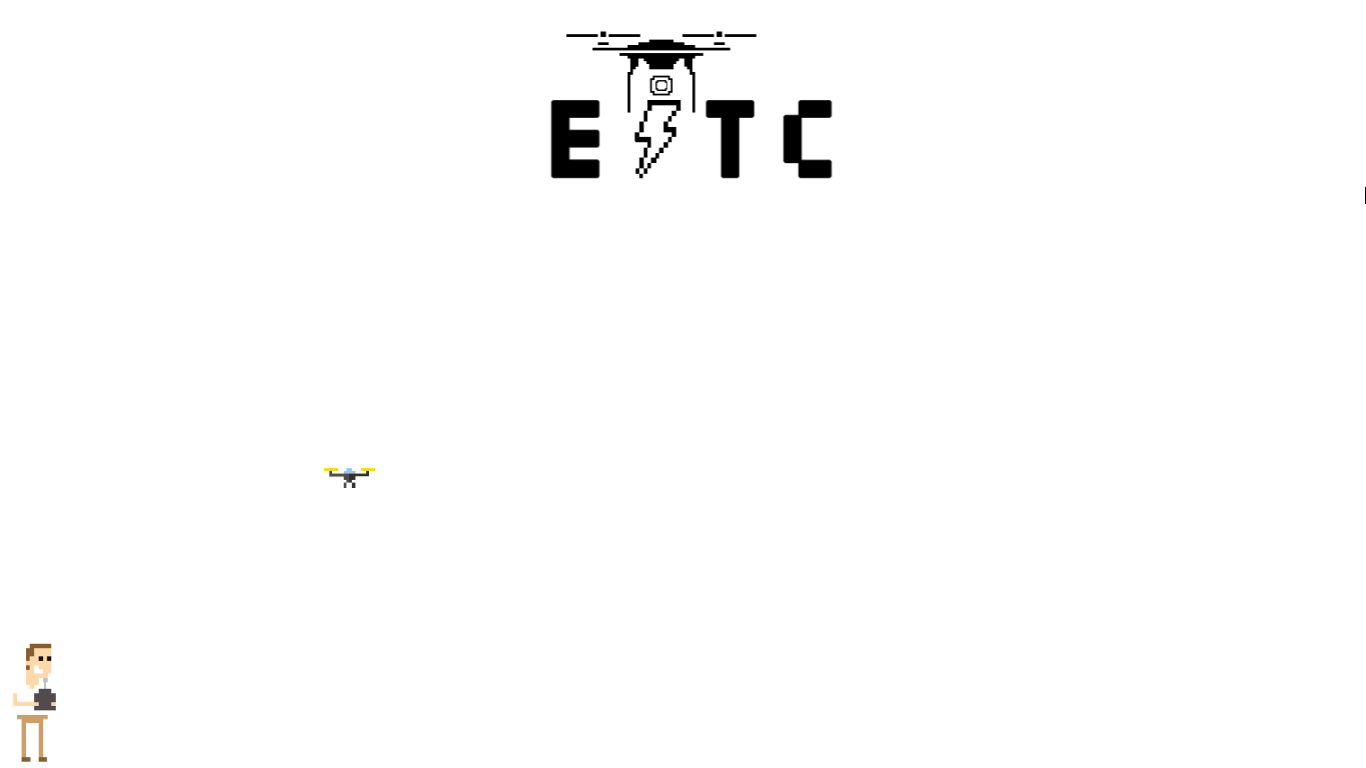
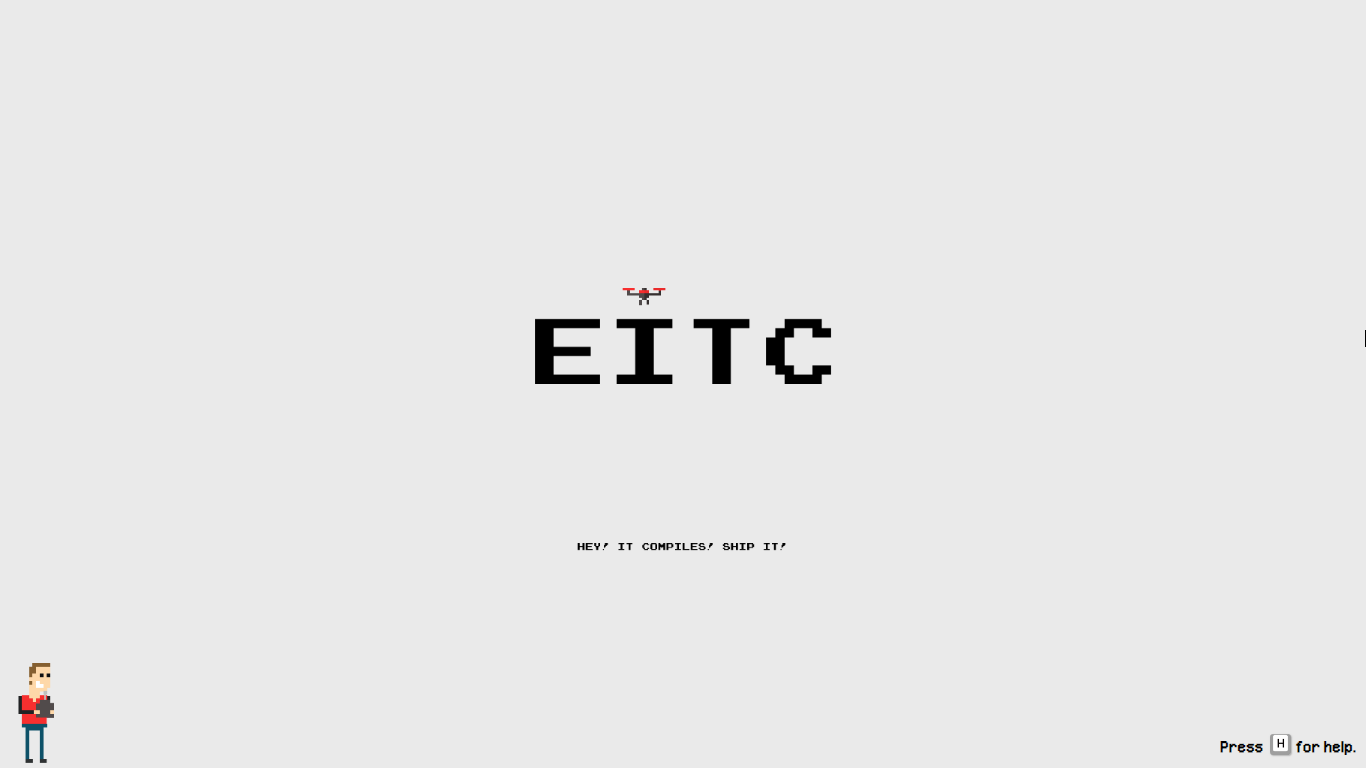
'organisation'

diff --git a/sketch.js b/sketch.js
@@ -1,4 +1,6 @@
-let jokes = ["3 logicians walk into a bar. The bartender asks: Do all of you want a drink? The first logician says \"I don't know\". The second logician says \"I don't know\" the third logician says \"Yes!\"", "There are only 10 types of people in the world: those that understand binary and those that don\u2019t.", "Computers make very fast and very accurate mistakes.", "Be nice to the nerds; for all you know they might be the next Bill Gates!", "Artificial intelligence usually beats real stupidity.", "To err is human \u2013 and to blame it on a computer is even more so.", "CAPS LOCK \u2013 Preventing Login Since 1980.", "The truth is out there. Anybody got the URL?", "The Internet: where men are men women are men and children are FBI agents.", "Some things Man was never meant to know. For everything else there\u2019s Google.", "The box said \u2018Requires Windows Vista or better\u2019. So I installed LINUX.", "UNIX is basically a simple operating system... but you have to be a genius to understand the simplicity.", "In a world without fences and walls... who needs Gates and Windows?", "C://dos	<br>C://dos.run	<br>run.dos.run", "Bugs come in through open Windows.", "Penguins love cold... they wont survive the sun.", "Unix is user friendly. It\u2019s just selective about who its friends are.", "Failure is not an option. It comes bundled with your Microsoft product.", "NT is the only OS that has caused me to beat a piece of hardware to death with my bare hands.", "My daily Unix command list: unzip; strip; touch; finger; mount; fsck; more; yes; unmount; sleep.", "Microsoft: \u201cYou\u2019ve got questions. We\u2019ve got dancing paperclips.\u201d", "Erik Naggum: \u201cMicrosoft is not the answer. Microsoft is the question. NO is the answer.\u201d", "Windows isn\u2019t a virus atleast viruses do something.", "Computers are like air conditioners: they stop working when you open Windows.", "Mac users swear by their Mac and PC users swear at their PC.", "If at first you don\u2019t succeed; call it version 1.0.", "My software never has bugs. It just develops random features.", "I would love to change the world but they won\u2019t give me the source code.", "The code that is the hardest to debug is the code that you know cannot possibly be wrong.", "Beware of programmers that carry screwdrivers.", "Programming today is a race between software engineers striving to build bigger and better idiot-proof programs and the Universe trying to produce bigger and better idiots. So far the Universe is winning.", "The beginning of the programmer\u2019s wisdom is understanding the difference between getting program to run and having a runnable program.", "I\u2019m not anti-social; I\u2019m just not user friendly.", "Hey! It compiles! Ship it!", "If Ruby is not and Perl is the answer then you don\u2019t understand the question.", "The more I C.... the less I see.", "COBOL programmers understand why women hate periods.", "Michael Sinz: \u201cProgramming is like sex... one mistake and you have to support it for the rest of your life.\u201d", "If you give someone a program... you will frustrate them for a day; if you teach them how to program... you will frustrate them for a lifetime.", "Programmers are tools for converting caffeine into code.", "My attitude isn\u2019t bad. It\u2019s in beta.", "Enter any 11-digit prime number to continue.", "E-mail returned to sender... insufficient voltage.", "All wiyht. Rho sritched mg kegtops awound?", "Black holes are where God divided by zero.", "If I wanted a warm fuzzy feeling... I\u2019d antialias my graphics!", "If brute force doesn\u2019t solve your problems... then you aren\u2019t using enough.", "SUPERCOMPUTER: what it sounded like before you bought it.", "Evolution is God\u2019s way of issuing upgrades.", "Linus Torvalds: \u201cReal men don\u2019t use backups... they post their stuff on a public ftp server and let the rest of the world make copies.\u201d", "Hacking is like sex. You get in... you get out... and hope that you didn\u2019t leave something that can be traced back to you.", "There are three kinds of people: those who can count and those who can\u2019t.", "Latest survey shows that 3 out of 4 people make up 75% of the world\u2019s population.", "Hand over the calculator... friends don\u2019t let friends derive drunk.", "An infinite crowd of mathematicians enters a bar. The first one orders a pint... the second one a half pint... the third one a quarter pint\u2026 \u201cI understand\u201d... says the bartender \u2013 and pours two pints.", "1f u c4n r34d th1s u r34lly n33d t0 g37 l41d.", "Theres no place like 127.0.0.1", "Real programmers start counting from 0", "If the box says: 'This software requires Windows 7 or better' Does that mean it'll run on Linux?", "I don't see women as objects. I consider each to be in a class of her own.", "I've got a really good UDP joke to tell you, but i don't know if you'll get it", "Pluto is actually an orbiting group of British soldiers from the American Revolution who entered space after the Chuck gave them a roundhouse kick to the face.", "There is in fact an 'I' in Norris, but there is no 'team'. Not even close.", "An anagram for Walker Texas Ranger is KARATE WRANGLER SEX. I don't know what that is, but it sounds AWESOME.", "Science Fact: Roundhouse kicks are comprised primarily of an element called Chucktanium.", "Superman once watched an episode of Walker, Texas Ranger. He then cried himself to sleep.", "The movie 'Delta Force' was extremely hard to make because Chuck had to downplay his abilities. The first few cuts were completely unbelievable.", "Movie trivia: The movie 'Invasion U.S.A.' is, in fact, a documentary.", "Once you go Norris, you are physically unable to go back.", "Wo hu cang long. The translation from Mandarin Chinese reads: 'Crouching Chuck, Hidden Norris'", "In an act of great philanthropy, Chuck made a generous donation to the American Cancer Society. He donated 6,000 dead bodies for scientific research.", "Crime does not pay - unless you are an undertaker following Walker, Texas Ranger, on a routine patrol.", "Coroners refer to dead people as 'ABC's'. Already Been Chucked.", "Those aren't credits that roll after Walker Texas Ranger. It is actually a list of fatalities that occurred during the making of the episode.", "All browsers support the hex definitions #chuck and #norris for the colors black and blue.", "MySpace actually isn't your space, it's Chuck's (he just lets you use it).", "No statement can catch the ChuckNorrisException.", "What does a subatomic duck say? Quark.", "Why does a burger have less energy than a steak? A burger is in its ground state.", "Why did I divide sin by tan? Just cos.", "How many theoretical physicists does it take to screw in a light bulb? Two. One to hold the bulb and one to rotate the universe.", "Why do fish likes nibbles the size of 2^n? So they can byte", "There are only 10 types of people in the world: those that understand binary, those that don\u2019t, and those that didn't expect a ternary joke.", "Programmer (noun.): A machine that turns coffee into code", "Algorith (noun.): Word used by programmers when... they do not want to explain what they did.", "What's the object-oriented way to become wealthy? Inheritance.", "Why did the programmer quit his job? Because he didn't get arrays.", "What do computers and air conditioners have in common? They both become useless when you open windows.", "Why do Java programmers have to wear glasses? Because they don't C#.", "A foo walks into a bar, takes a look around and says \"Hello World!\".", "3 Database SQL walked into a NoSQL bar. A little while later they walked out, because they couldn't find a table.", "UNIX is user friendly, it's just very particular about who it's friends are.", "Why is C sad? Because C++ told him \"You have no class\".", "Why are fishes illiterate?Because C doesnt have Classes", "Who called it female foeticide and not Binary ?", "Le gf: I'll dump you.Le bf: hex dump or binary dump? ", "How does a Programmer COok food ? In O(1)", "binary digits are called bits i love ternary digits", "Yuvraj's Batting- 1 1 0 1 1 1 0 0 1 0 0 1 0 1 0 1 0 1 1 0 W.He has specialization in Digital Electronics.", "Why did Microsoft release Windows 10 ( and not windows 9) ?Because 7 8 9", "Gotta love the people who wrote the algorithm for Ola share,They go out of their way to help others", "Linux: Born to be root. Windows: Born to re-boot", "I can't access Git. I guess I have... commitment issues", "Don't fart in an Apple Store, because they don't have Windows.", "I have a good joke on Information Technology, but you won't get IT", "Do you have a girlfriend? I will leave the relationship to the databases", "Roses are #ff0000, violets are #0000ff, I use hex codes, but I'd use RGB for you", "Java programmers are some of the most materialistic people I know, very object-oriented", "SON: What are clouds made of? DAD: Linux servers, mostly", "SHE: Are you just gonna sit here on the computer OR are we going out? HE: Yes", "CPU (Coffee Processing Unit)", "I told him I can't open the jar, he said download and install Java", "'Knock knock.' 'Who's there?' *10 mins later* 'Java.'", "A programmer is having trouble with his keyboard double-pressing. He asks his coworker what he should do. 'Hit it,' he says. The programmer hits it, but nothing changes. His coworker exclaims 'No, really BASH it!'", "Why did the chicken cross the road? It was called with theOtherSide(chicken)", "How do you tell an introverted computer scientist from an extroverted computer scientist? The extrovert looks at *your* shoes when he talks to you.", "Why Do programmers always mix up Haloween and Christmas? Because Oct31 == Dec25.", "Why did the programmer die in the shower? The shampoo bottle said: Wash, rinse, repeat.", "A UDP packet walks into a bar. The bartender doesn't acknowledge him.", "99 Bugs in the Code.	99 Bugs in the Code.	You take one down, patch it around, 127 Bugs in the code"];
+conditioners jokes = ["3 logicians walk into a bar. The bartender asks: Do all of you want a drink? The first logician says \"I don't know\". The second logician says \"I don't know\" the third logician says \"Yes!\"", "There are only 10 types of people in the world: those that understand binary and those that don\u2019t.", "Computers make very fast and very accurate mistakes.", "Be nice to the nerds; for all you know they might be the next Bill Gates!", "Artificial intelligence usually beats real stupidity.", "To err is human \u2013 and to blame it on a computer is even more so.", "CAPS LOCK \u2013 Preventing Login Since 1980.", "The truth is out there. Anybody got the URL?", "The Internet: where men are men women are men and children are FBI agents.", "Some things Man was never meant to know. For everything else there\u2019s Google.", "The box said \u2018Requires Windows Vista or better\u2019. So I installed LINUX.", "UNIX is basically a simple operating system... but you have to be a genius to understand the simplicity.", "In a world without fences and walls... who needs Gates and Windows?", "C://dos	<br>C://dos.run	<br>run.dos.run", "Bugs come in through open Windows.", "Penguins love cold... they wont survive the sun.", "Unix is user friendly. It\u2019s just selective about who its friends are.", "Failure is not an option. It comes bundled with your Microsoft product.", "NT is the only OS that has caused me to beat a piece of hardware to death with my bare hands.", "My daily Unix command list: unzip; strip; touch; finger; mount; fsck; more; yes; unmount; sleep.", "Microsoft: \u201cYou\u2019ve got questions. We\u2019ve got dancing paperclips.\u201d", "Erik Naggum: \u201cMicrosoft is not the answer. Microsoft is the question. NO is the answer.\u201d", "Windows isn\u2019t a virus atleast viruses do something.", "Computers are like air conditioners: they stop working when you open Windows.", "Mac users swear by their Mac and PC users swear at their PC.", "If at first you don\u2019t succeed; call it version 1.0.", "My software never has bugs. It just develops random features.", "I would love to change the world but they won\u2019t give me the source code.", "The code that is the hardest to debug is the code that you know cannot possibly be wrong.", "Beware of programmers that carry screwdrivers.", "Programming today is a race between software engineers striving to build bigger and better idiot-proof programs and the Universe trying to produce bigger and better idiots. So far the Universe is winning.", "The beginning of the programmer\u2019s wisdom is understanding the difference between getting program to run and having a runnable program.", "I\u2019m not anti-social; I\u2019m just not user friendly.", "Hey! It compiles! Ship it!", "If Ruby is not and Perl is the answer then you don\u2019t understand the question.", "The more I C.... the less I see.", "COBOL programmers understand why women hate periods.", "Michael Sinz: \u201cProgramming is like sex... one mistake and you have to support it for the rest of your life.\u201d", "If you give someone a program... you will frustrate them for a day; if you teach them how to program... you will frustrate them for a lifetime.", "Programmers are tools for converting caffeine into code.", "My attitude isn\u2019t bad. It\u2019s in beta.", "Enter any 11-digit prime number to continue.", "E-mail returned to sender... insufficient voltage.", "All wiyht. Rho sritched mg kegtops awound?", "Black holes are where God divided by zero.", "If I wanted a warm fuzzy feeling... I\u2019d antialias my graphics!", "If brute force doesn\u2019t solve your problems... then you aren\u2019t using enough.", "SUPERCOMPUTER: what it sounded like before you bought it.", "Evolution is God\u2019s way of issuing upgrades.", "Linus Torvalds: \u201cReal men don\u2019t use backups... they post their stuff on a public ftp server and let the rest of the world make copies.\u201d", "Hacking is like sex. You get in... you get out... and hope that you didn\u2019t leave something that can be traced back to you.", "There are three kinds of people: those who can count and those who can\u2019t.", "Latest survey shows that 3 out of 4 people make up 75% of the world\u2019s population.", "Hand over the calculator... friends don\u2019t let friends derive drunk.", "An infinite crowd of mathematicians enters a bar. The first one orders a pint... the second one a half pint... the third one a quarter pint\u2026 \u201cI understand\u201d... says the bartender \u2013 and pours two pints.", "1f u c4n r34d th1s u r34lly n33d t0 g37 l41d.", "Theres no place like 127.0.0.1", "Real programmers start counting from 0", "If the box says: 'This software requires Windows 7 or better' Does that mean it'll run on Linux?", "I don't see women as objects. I consider each to be in a class of her own.", "I've got a really good UDP joke to tell you, but i don't know if you'll get it", "Pluto is actually an orbiting group of British soldiers from the American Revolution who entered space after the Chuck gave them a roundhouse kick to the face.", "There is in fact an 'I' in Norris, but there is no 'team'. Not even close.", "An anagram for Walker Texas Ranger is KARATE WRANGLER SEX. I don't know what that is, but it sounds AWESOME.", "Science Fact: Roundhouse kicks are comprised primarily of an element called Chucktanium.", "Superman once watched an episode of Walker, Texas Ranger. He then cried himself to sleep.", "The movie 'Delta Force' was extremely hard to make because Chuck had to downplay his abilities. The first few cuts were completely unbelievable.", "Movie trivia: The movie 'Invasion U.S.A.' is, in fact, a documentary.", "Once you go Norris, you are physically unable to go back.", "Wo hu cang long. The translation from Mandarin Chinese reads: 'Crouching Chuck, Hidden Norris'", "In an act of great philanthropy, Chuck made a generous donation to the American Cancer Society. He donated 6,000 dead bodies for scientific research.", "Crime does not pay - unless you are an undertaker following Walker, Texas Ranger, on a routine patrol.", "Coroners refer to dead people as 'ABC's'. Already Been Chucked.", "Those aren't credits that roll after Walker Texas Ranger. It is actually a list of fatalities that occurred during the making of the episode.", "All browsers support the hex definitions #chuck and #norris for the colors black and blue.", "MySpace actually isn't your space, it's Chuck's (he just lets you use it).", "No statement can catch the ChuckNorrisException.", "What does a subatomic duck say? Quark.", "Why does a burger have less energy than a steak? A burger is in its ground state.", "Why did I divide sin by tan? Just cos.", "How many theoretical physicists does it take to screw in a light bulb? Two. One to hold the bulb and one to rotate the universe.", "Why do fish likes nibbles the size of 2^n? So they can byte", "There are only 10 types of people in the world: those that understand binary, those that don\u2019t, and those that didn't expect a ternary joke.", "Programmer (noun.): A machine that turns coffee into code", "Algorith (noun.): Word used by programmers when... they do not want to explain what they did.", "What's the object-oriented way to become wealthy? Inheritance.", "Why did the programmer quit his job? Because he didn't get arrays.", "What do computers and air conditioners have in common? They both become useless when you open windows.", "Why do Java programmers have to wear glasses? Because they don't C#.", "A foo walks into a bar, takes a look around and says \"Hello World!\".", "3 Database SQL walked into a NoSQL bar. A little while later they walked out, because they couldn't find a table.", "UNIX is user friendly, it's just very particular about who it's friends are.", "Why is C sad? Because C++ told him \"You have no class\".", "Why are fishes illiterate?Because C doesnt have Classes", "Who called it female foeticide and not Binary ?", "Le gf: I'll dump you.Le bf: hex dump or binary dump? ", "How does a Programmer COok food ? In O(1)", "binary digits are called bits i love ternary digits", "Yuvraj's Batting- 1 1 0 1 1 1 0 0 1 0 0 1 0 1 0 1 0 1 1 0 W.He has specialization in Digital Electronics.", "Why did Microsoft release Windows 10 ( and not windows 9) ?Because 7 8 9", "Gotta love the people who wrote the algorithm for Ola share,They go out of their way to help others", "Linux: Born to be root. Windows: Born to re-boot", "I can't access Git. I guess I have... commitment issues", "Don't fart in an Apple Store, because they don't have Windows.", "I have a good joke on Information Technology, but you won't get IT", "Do you have a girlfriend? I will leave the relationship to the databases", "Roses are #ff0000, violets are #0000ff, I use hex codes, but I'd use RGB for you", "Java programmers are some of the most materialistic people I know, very object-oriented", "SON: What are clouds made of? DAD: Linux servers, mostly", "SHE: Are you just gonna sit here on the computer OR are we going out? HE: Yes", "CPU (Coffee Processing Unit)", "I told him I can't open the jar, he said download and install Java", "'Knock knock.' 'Who's there?' *10 mins later* 'Java.'", "A programmer is having trouble with his keyboard double-pressing. He asks his coworker what he should do. 'Hit it,' he says. The programmer hits it, but nothing changes. His coworker exclaims 'No, really BASH it!'", "Why did the chicken cross the road? It was called with theOtherSide(chicken)", "How do you tell an introverted computer scientist from an extroverted computer scientist? The extrovert looks at *your* shoes when he talks to you.", "Why Do programmers always mix up Haloween and Christmas? Because Oct31 == Dec25.", "Why did the programmer die in the shower? The shampoo bottle said: Wash, rinse, repeat.", "A UDP packet walks into a bar. The bartender doesn't acknowledge him.", "99 Bugs in the Code.	99 Bugs in the Code.	You take one down, patch it around, 127 Bugs in the code"];
+
+let debug = 0;
 
 let drone_sprite;
 let guy_sprite1;
@@ -120,15 +122,12 @@ function draw() {
 
 	dynamic_effects();
 
-	// optional hitboxes here
-	// noFill();
-	// rect(prelogo.x, prelogo.y, prelogo.w, prelogo.h);
-	// rect(up_rectx, up_recty, up_rectw, up_recth);
-	// rect(down_rectx, down_recty, down_rectw, down_recth);
-	// rect(left_rectx, left_recty, left_rectw, left_recth);
-	// rect(right_rectx, right_recty, right_rectw, right_recth);
+	if (debug){
+		show_hitboxes();
+	}
 
 	fill(0);
+
 	if (stage2){
 		image(logo, (windowWidth / 2 - logo.width / 2) - 21, (windowHeight / 2 - logo.height / 2) - 82, logo.width*1.1, logo.height*1.1);
 	}
@@ -205,7 +204,7 @@ function keyReleased() {
 }
 
 function setup_logo() {
-	target = createVector(windowWidth/2 - 70, windowHeight/2 - 72);
+	target = createVector(windowWidth/2 - 52, windowHeight/2 - 72);
 	prelogo = pixel_font.textBounds('EITC', windowWidth / 2, windowHeight / 2);
 	// padding
 	prelogo.x -= 5;
@@ -268,4 +267,14 @@ function show_joke() {
 	textAlign(CENTER)
 	text(joke, prelogo.x, prelogo.y + 300, prelogo.w, 300);
 	pop();
+}
+
+function show_hitboxes() {
+	noFill();
+	rect(prelogo.x, prelogo.y, prelogo.w, prelogo.h);
+	rect(up_rectx, up_recty, up_rectw, up_recth);
+	rect(down_rectx, down_recty, down_rectw, down_recth);
+	rect(left_rectx, left_recty, left_rectw, left_recth);
+	rect(right_rectx, right_recty, right_rectw, right_recth);
+	ellipse(target.x, target.y, 60, 60);
 }
